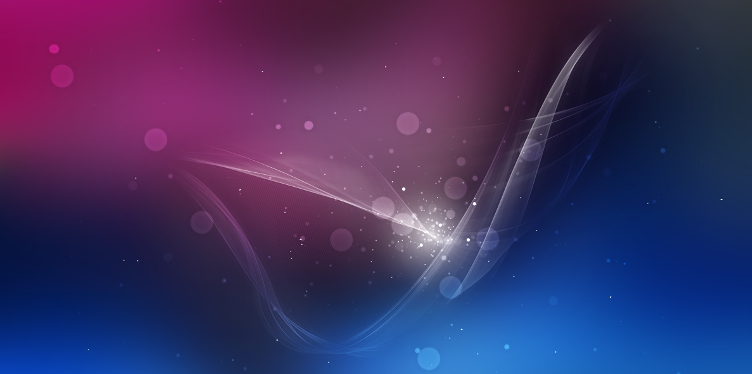
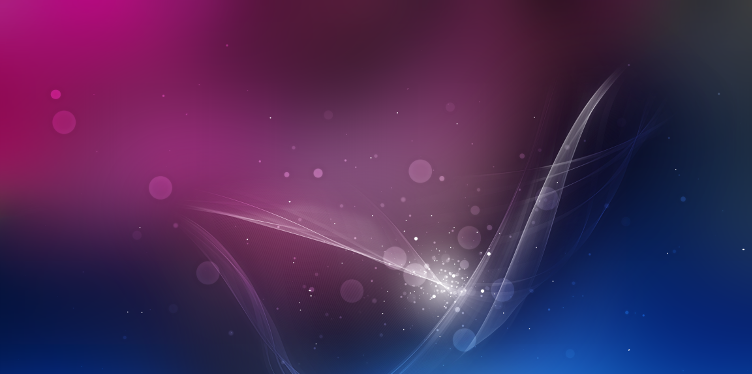
Adjustments and visibility improvements
- Change position of budgie-remix logo
- Adjust welcome slide background for better placement of text
- Change arrow colors for better visibility
- Pick slide header's color from Arc theme's palette

diff --git a/slideshows/budgie-remix/slides/link/base.css b/slideshows/budgie-remix/slides/link/base.css
@@ -122,7 +122,7 @@ strong {
 	width:100%;
 	height:68px;
 	z-index: 2;
-	background-color:#222;
+	background-color:#262932;
 	box-shadow: 0 1px 3px rgba(0,0,0,0.12), 0 1px 2px rgba(0,0,0,0.24);
 }
 
